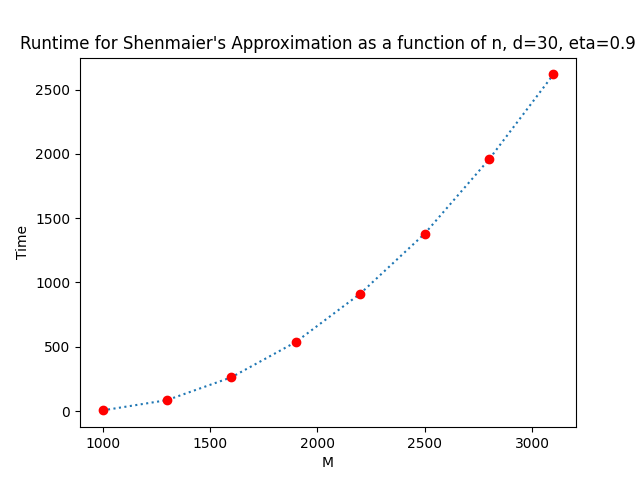
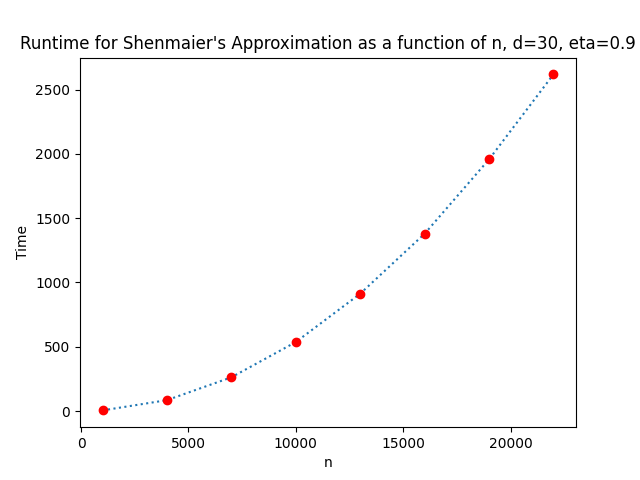
benchmarking

diff --git a/src/plot from log.py b/src/plot from log.py
@@ -2,18 +2,20 @@ import benchmarking.utils
 import data.loading
 from meb import geometry
 
-n = [1000 + 300*i for i in range(8)]
+n = [1000 + 3000*i for i in range(8)]
 d = 30
 eta = 0.9
 
-times = benchmarking.utils.get_times_from_log(filepath=r"benchmarks/shenmaier/uniform_ball/func_n_d30_eta0p9_uniform_ball.log")
+filep = r"benchmarks/shenmaier/uniform_ball/func_n_d30_eta0p9_uniform_ball"
+
+times = benchmarking.utils.get_times_from_log(filepath=r"{}.log".format(filep))
 
 benchmarking.utils.plot_times(
         x_axis=n,
         times=times,
-        xlabel="M",
+        xlabel="n",
         ylabel="Time",
         title="Runtime for Shenmaier's Approximation as a function of n, d={0}, eta={1}".format(d,eta),
         plot=True,
-        filepath=r"benchmarks/shenmaier/uniform_ball/func_n_d30_eta0p9_uniform_ball.png"
+        filepath=r"{}.png".format(filep)
     )

diff --git a/src/benchmarking/trials.py b/src/benchmarking/trials.py
@@ -95,7 +95,10 @@ def run_trials_alg(func, n, d, eta, num_trials, data_type, log_file=None, **kwar
             utils.progress_report(x, trial_param, i)
 
             # load data
-            filename = r"datasets/{0}/{1}_n{2}_d{3}_{4}.csv".format(data_type, data_type, n_, d_, i)
+            filename = r"datasets/{0}/{1}_n{2}_d{3}".format(data_type, data_type, n_, d_)
+            if data_type == "uniform_ball_with_outliers":
+                filename += r"_eta{}".format(utils.format_eta(eta_))
+            filename += r"_{}.csv".format(i)
             data_ = data.loading.from_csv(filename)
 
             # only need to calculate M when data is normal

diff --git a/src/mebwo_alg_benchmarking.py b/src/mebwo_alg_benchmarking.py
@@ -41,7 +41,7 @@ if msg == "y":
     for func_name in confirmed_funcs:
         for data_type in confirmed_data:
             if confirmed_experiments["n"]:
-                n = [1000 + 3000*i for i in range(10)]
+                n = [1000 + 3000*i for i in range(10) if 1000 + 3000*i > 13000]
                 d = 30
                 eta = 0.9
 
